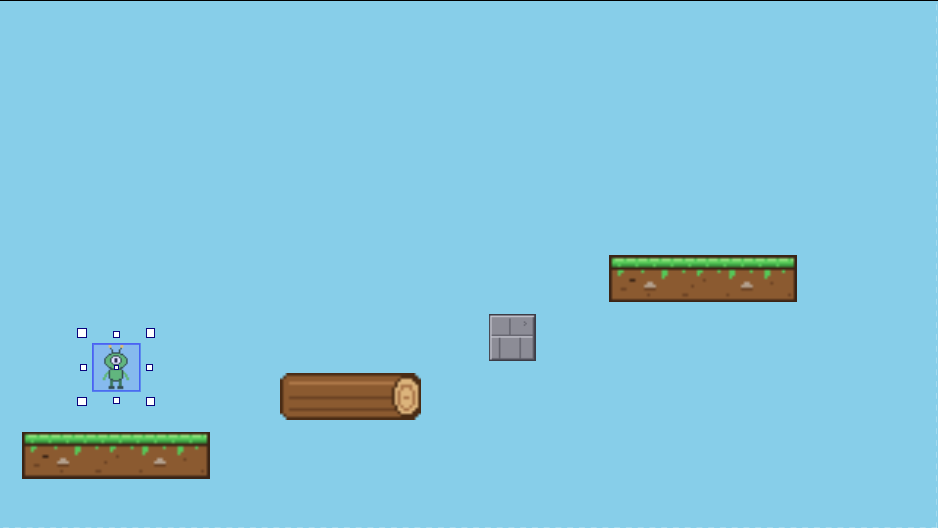
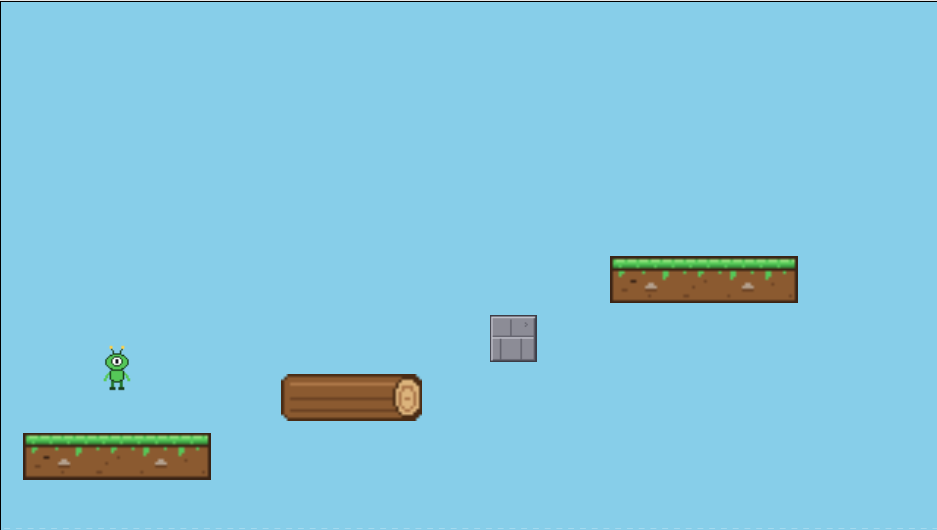
Outside Assets 2B: Player row in the table and brief; better layout screenshot
Claude-Session: https://claude.ai/code/session_0163dwnSPGg46bECUvJ2NhG6

diff --git a/construct3/platformer-outside-assets/index.html b/construct3/platformer-outside-assets/index.html
@@ -54,7 +54,7 @@
     <div class="down">↓</div>
     <div class="band" style="--c:var(--p2)"><h4><a href="#part2">Part 2 · Bring in your assets</a></h4><div class="bubbles">
       <div class="bubble"><b>2A · Player</b>Sprite Player · Import Frames<br>From Sheet: Columns 5 · Rows 1<br>Width 32 · Height 32 · Add all frames<br>Import frames<br>Delete empty frame 0 · Speed 0<br>Position 160, 500 · Size 64 × 64</div><span class="arrow">→</span>
-      <div class="bubble"><b>2B · Platforms</b>Drag in PNGs · Size = Piskel × 4<br>ground 160, 620 · 256 × 64<br>log 480, 540 · 192 × 64<br>block 700, 460 · 64 × 64<br>ground (Object types) 960, 380</div><span class="arrow">→</span>
+      <div class="bubble"><b>2B · Platforms</b>Drag in PNGs · Size = Piskel × 4<br>Player 160, 500 · 64 × 64<br>ground 160, 620 · 256 × 64<br>log 480, 540 · 192 × 64<br>block 700, 460 · 64 × 64<br>ground (Object types) 960, 380</div><span class="arrow">→</span>
       <div class="bubble"><b>2C · Sharp pixels</b>Project → Sampling Nearest</div>
     </div></div>
     <div class="down">↓</div>
@@ -180,7 +180,8 @@
 
 <h3>2B · Platforms: ground, log and block</h3>
 <table>
-<tr><th>Platform</th><th>File</th><th>Piskel size</th><th>Size W × H to type<br>(Piskel size × 4)</th><th>Position X, Y</th></tr>
+<tr><th>Object</th><th>File</th><th>Piskel size</th><th>Size W × H to type<br>(Piskel size × 4)</th><th>Position X, Y</th></tr>
+<tr><td><b>Player</b> (alien, from 2A)</td><td>alien sprite sheet</td><td>32 × 32</td><td>64 × 64</td><td>160, 500</td></tr>
 <tr><td><b>ground</b> (first)</td><td>ground.png</td><td>64 × 16</td><td>256 × 64</td><td>160, 620</td></tr>
 <tr><td><b>log</b></td><td>log.png</td><td>48 × 16</td><td>192 × 64</td><td>480, 540</td></tr>
 <tr><td><b>block</b></td><td>block.png</td><td>16 × 16</td><td>64 × 64</td><td>700, 460</td></tr>
@@ -196,6 +197,7 @@
 <li>For the last one, drag <b>ground</b> from <b>Object types</b> in the Project Bar onto the layout (not ground.png again). Type <b>Position</b> <b>960</b>, <b>380</b> and <b>Size</b> <b>256</b>, <b>64</b>. The four platforms now step up like stairs from left to right.</li>
 </ol>
 <div class="note pick"><b>Pick the right one:</b> the second ground must come from the <b>Project Bar</b>, so it is the same <b>ground</b> object. Dragging ground.png in again makes a second object type (ground2), which would need its own behaviour later.</div>
+<div class="note what"><b>Player moved or the wrong size?</b> Click it and type <b>Position</b> <b>160</b>, <b>500</b> and <b>Size</b> <b>64</b>, <b>64</b> again (top row of the table).</div>
 <div class="note what"><b>Blurry?</b> That is normal until you finish 2C, which makes stretched pixel art sharp.</div>
 
 <h3>2C · Sharp pixels</h3>
@@ -208,7 +210,7 @@
 <li>Click the project name <b>Platformer</b> at the top of the Project Bar (top-right panel) and set <b>Sampling</b> (left side panel) to <b>Nearest</b>. The edges turn sharp and blocky.</li>
 </ol>
 
-<p><b>Your layout should look like this:</b> the alien above the first ground, then the log, the block and the second ground stepping up to the right.</p><img src="../../assets/construct3/outside-assets-layout.png" alt="Construct 3 layout on a sky-blue background: the 64 by 64 alien selected above a grassy ground at the bottom-left, then a log, a grey stone block and a second grassy ground stepping up to the right" width="938" height="528" style="display:block;max-width:100%;height:auto;margin:.5em 0;border:1px solid #ccc;border-radius:6px">
+<p><b>Your layout should look like this:</b> the alien above the first ground, then the log, the block and the second ground stepping up to the right.</p><img src="../../assets/construct3/outside-assets-layout.png?v=2" alt="Construct 3 layout on a sky-blue background: the 64 by 64 alien above a grassy ground at the bottom-left, then a log, a grey stone block and a second grassy ground stepping up to the right" width="937" height="530" style="display:block;max-width:100%;height:auto;margin:.5em 0;border:1px solid #ccc;border-radius:6px">
 <div class="check"><strong>Checkpoint · Part 2</strong>
 <label><input type="checkbox"> The standing alien is on the layout (one alien, not five side by side)</label>
 <label><input type="checkbox"> The alien sits above the first ground</label>
